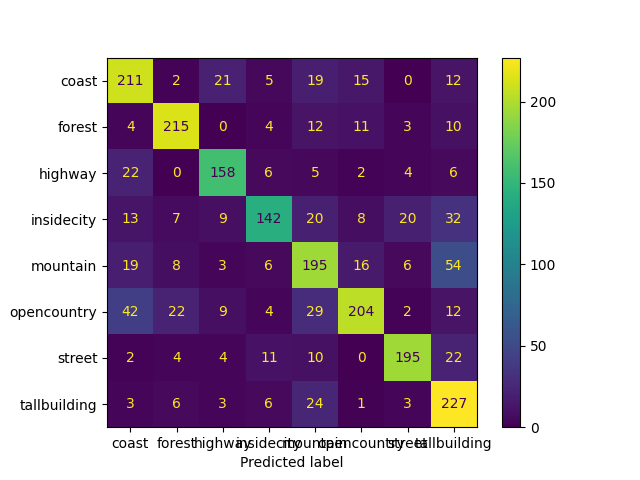
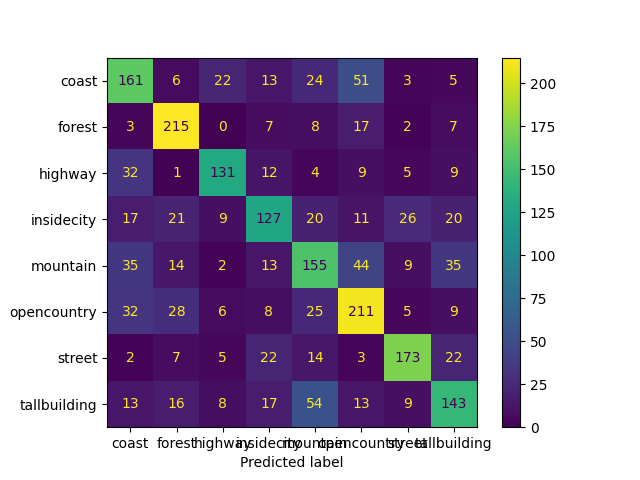
Modifications

diff --git a/Assignment_1/Task_2b/train.py b/Assignment_1/Task_2b/train.py
@@ -2,13 +2,11 @@ import torch
 import argparse
 import torch.nn as nn
 import torch.optim as optim
-from torch.utils.tensorboard import SummaryWriter
 from torch.utils.data import DataLoader
 from dataset import train_dataset, val_dataset
 from model import Image_Classification, weights_init
 import matplotlib.pyplot as plt
 
-tb = SummaryWriter()
 
 parser = argparse.ArgumentParser()
 parser.add_argument("weight_update", help="Enter the weight update rule", type=str)
@@ -18,8 +16,8 @@ args = parser.parse_args()
 #device = 'cuda' if torch.cuda.is_available() else 'cpu'
 device = 'cpu'
 batch_size = 1
-learning_rate = 1e-5
-epochs = 300
+learning_rate = 3e-6
+epochs = 450
 weight_update = args.weight_update
 
 
@@ -67,7 +65,6 @@ for epoch in range(epochs):
         optimizer.step()
 
     avg_train_loss = avg_train_loss/count
-    tb.add_scalar("Train Loss", avg_train_loss, epoch+1)
     avg_train_losses.append(avg_train_loss)
 
 
